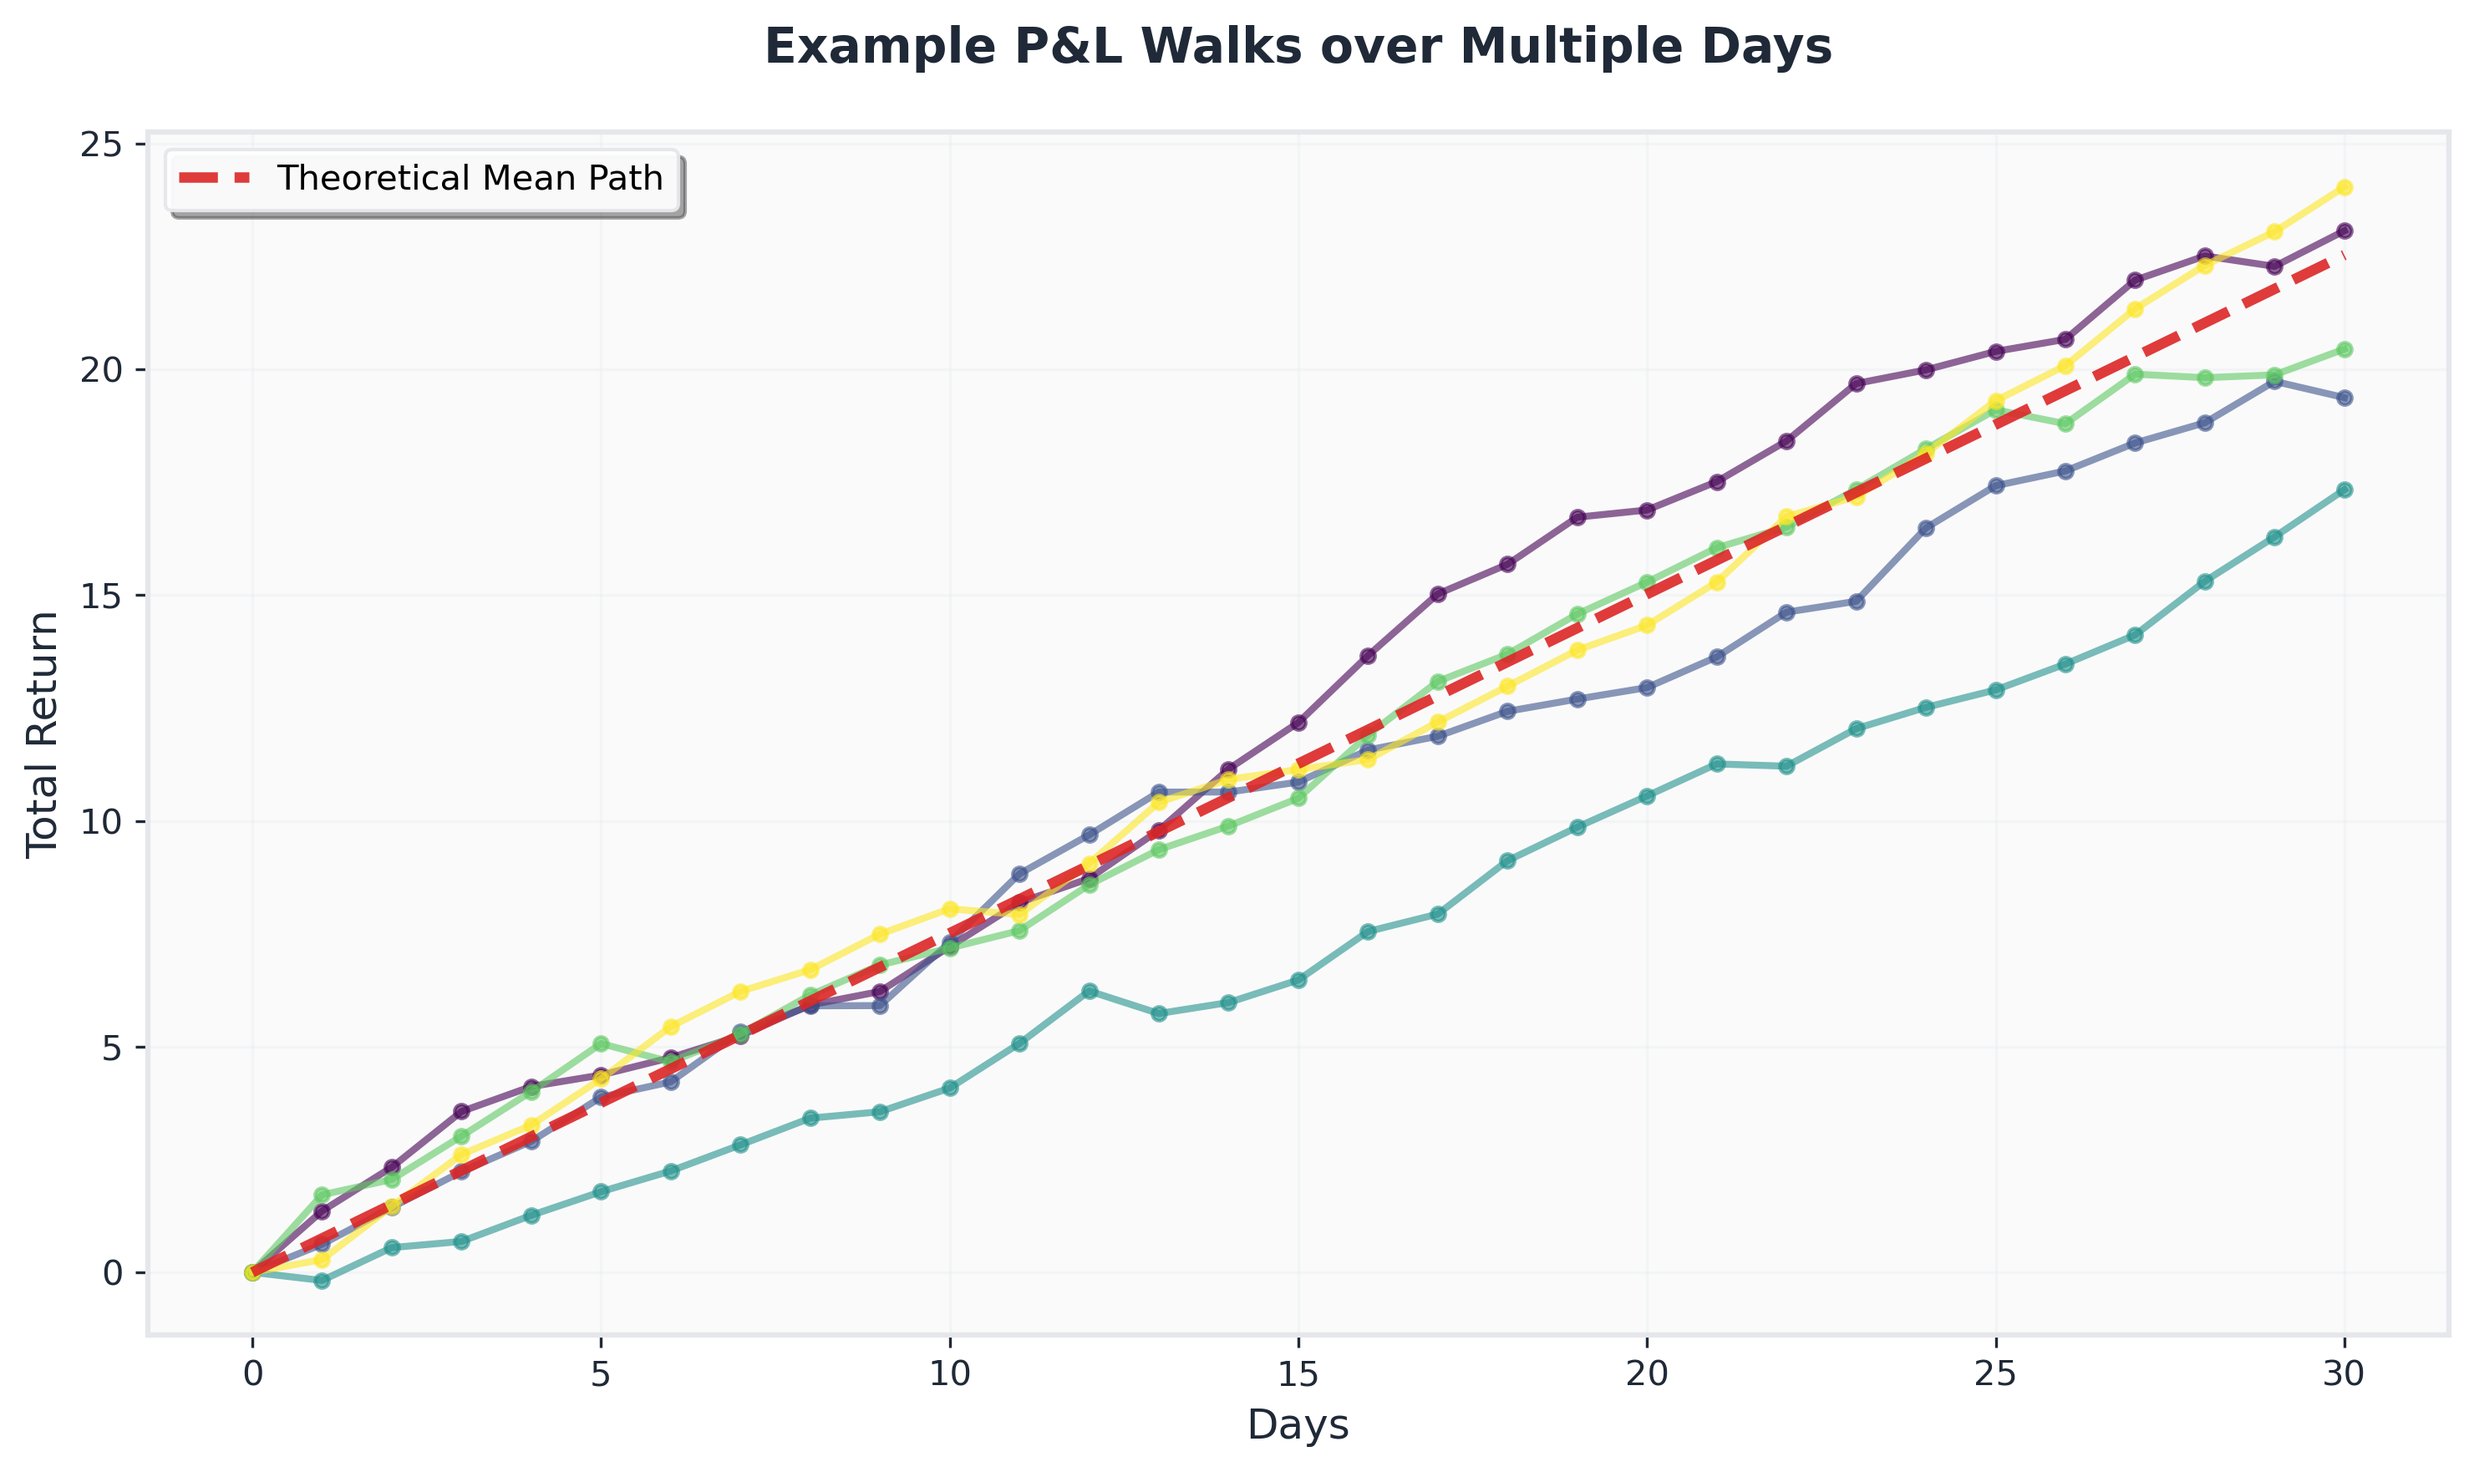
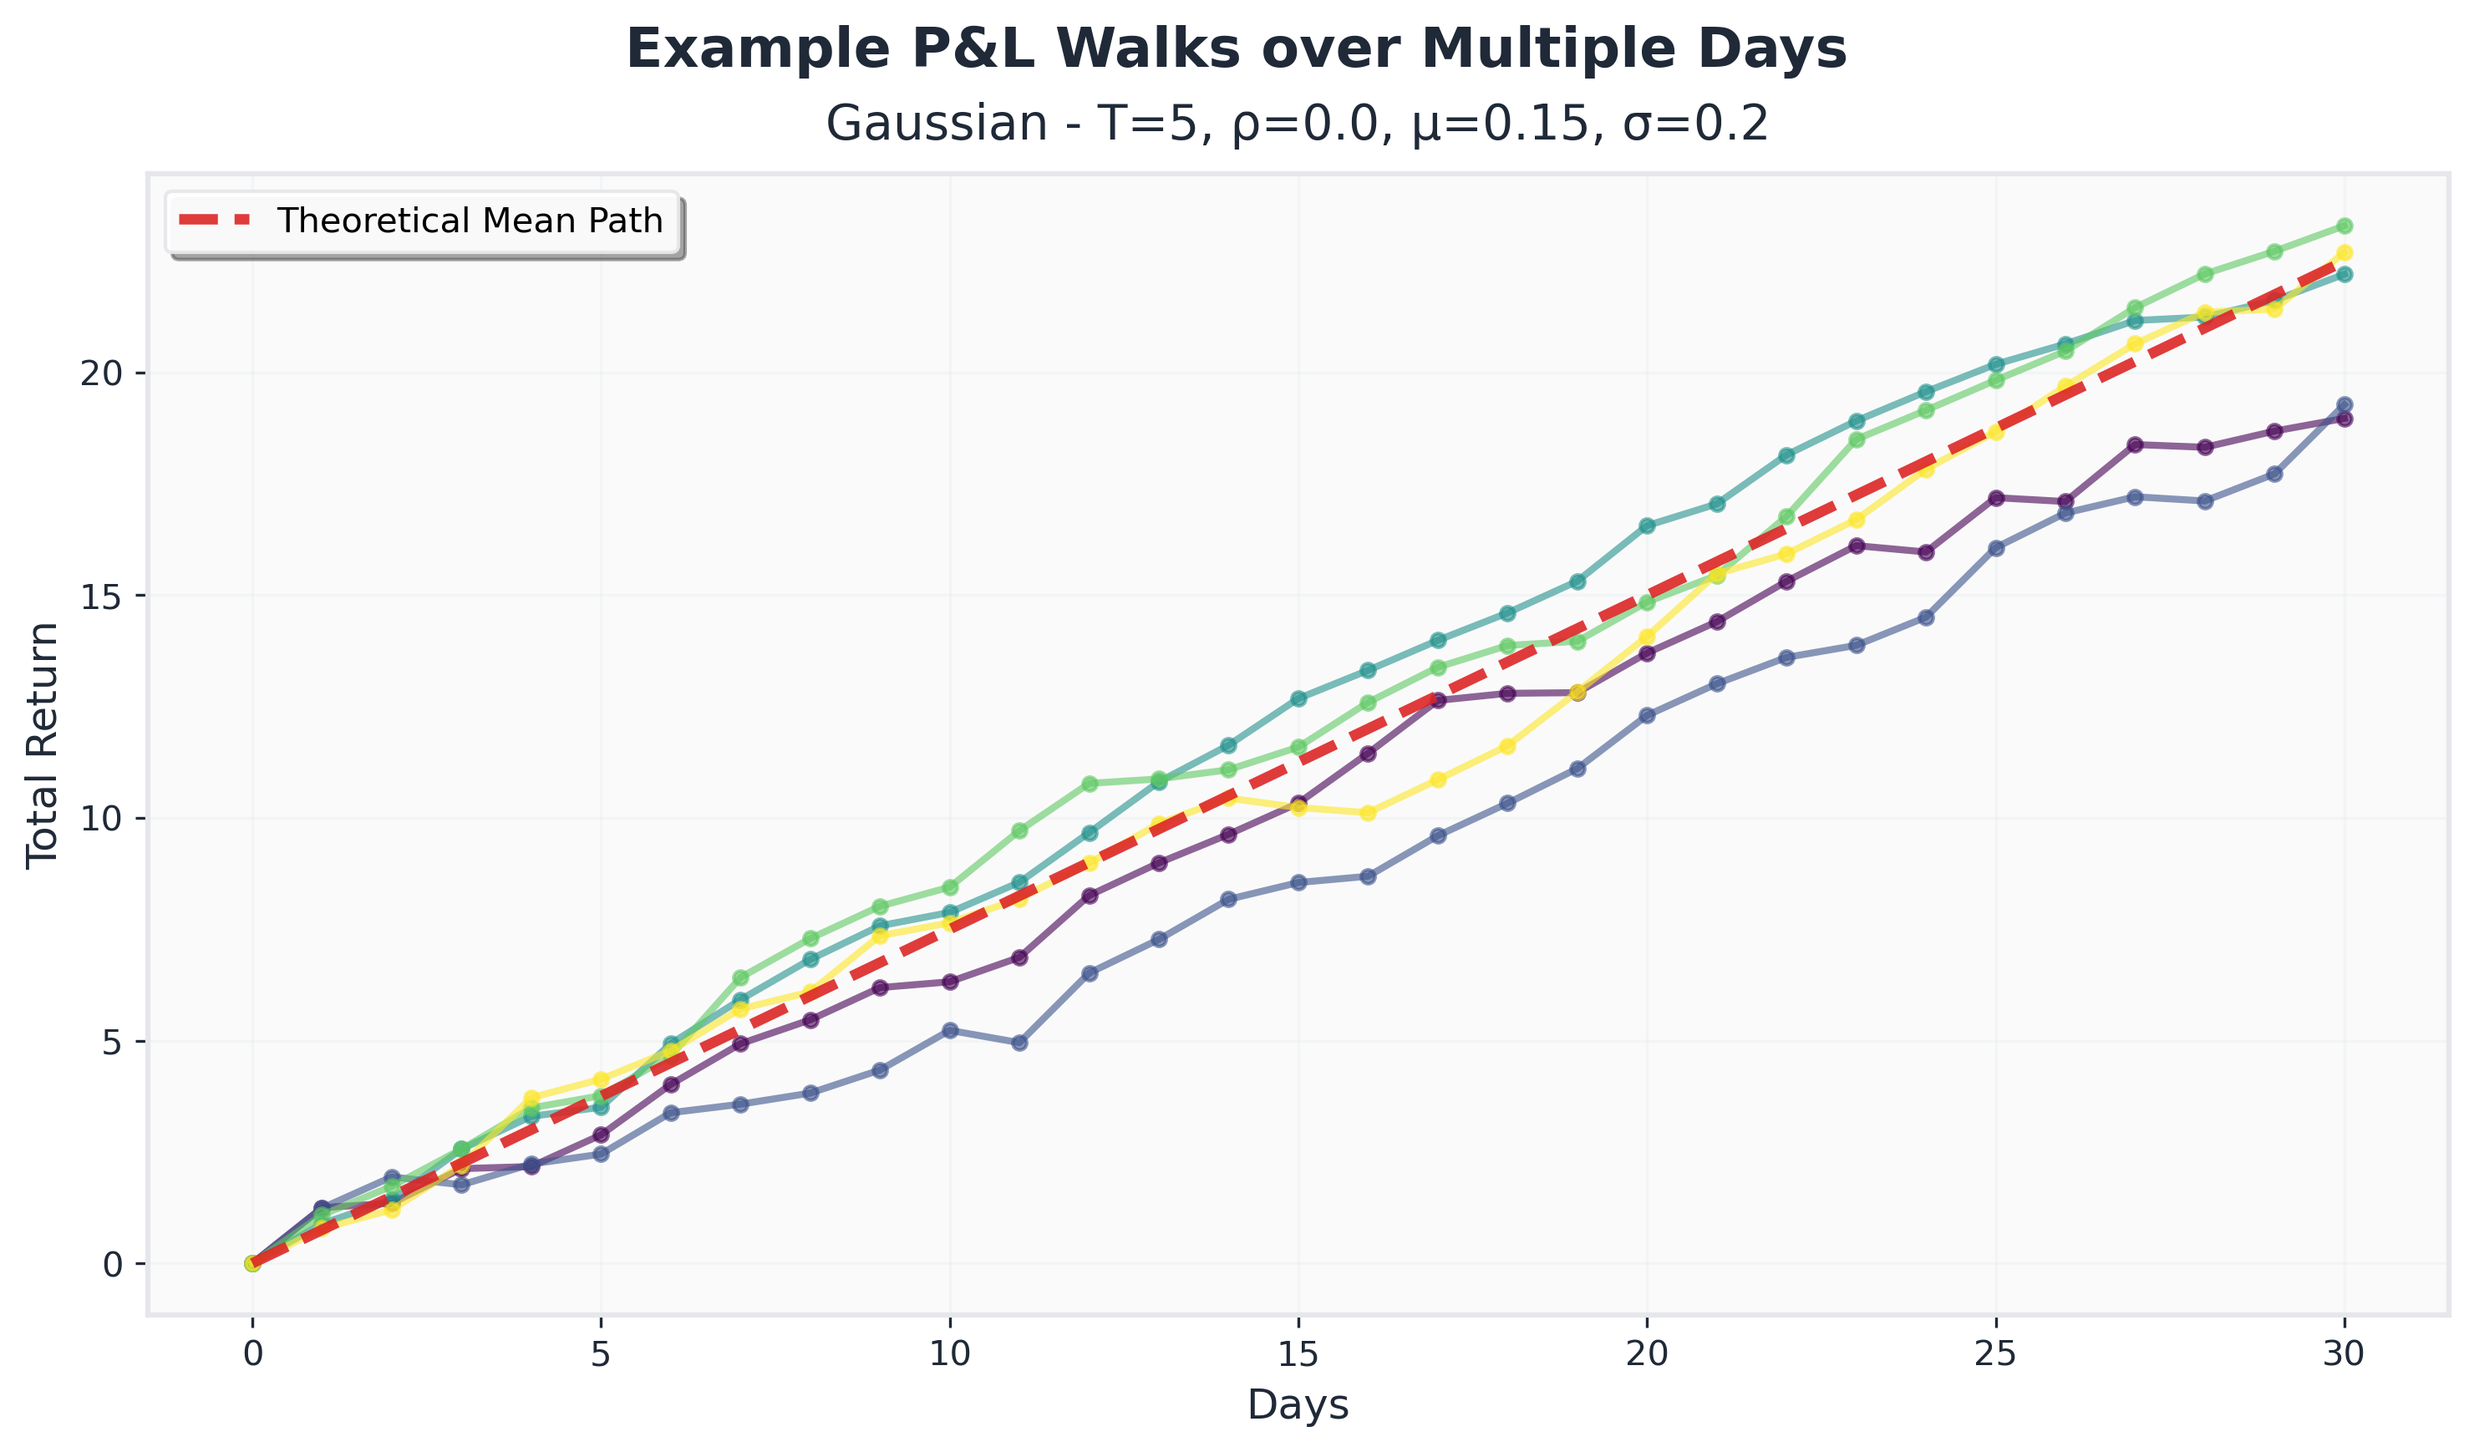
subtitle has info about the distrubtion

diff --git a/walk_days.py b/walk_days.py
@@ -120,10 +120,11 @@ path_mean = [true_mean * d for d in range(SAMPLE_DAYS + 1)]
 # VISUALIZATION HELPERS
 # ============================================================================
 
-def style_axes(ax, title, xlabel, ylabel):
+def style_axes(fig, ax, title, subtitle, xlabel, ylabel):
     """Apply consistent professional styling to axes."""
+    fig.suptitle(title, fontweight='700', color=COLOR_TEXT, y=.96)
     ax.set_facecolor('#fafafa')
-    ax.set_title(title, fontweight='600', color=COLOR_TEXT, pad=20)
+    ax.set_title(subtitle, fontweight='300', color=COLOR_TEXT, pad=10)
     ax.set_xlabel(xlabel, fontweight='500', color=COLOR_TEXT)
     ax.set_ylabel(ylabel, fontweight='500', color=COLOR_TEXT)
     ax.grid(True, which='major', linestyle='-', alpha=0.3, color=COLOR_GRID)
@@ -142,14 +143,14 @@ def create_legend(ax, **kwargs):
     return legend
 
 
-def get_distribution_name(dist, df=None, skew_alpha=None):
+def get_distribution_name(mu, sigma, dist, T, rho, df, skew_alpha):
     """Get formatted distribution name for labels."""
     if dist == "gaussian":
-        return "Gaussian"
+        return f"Gaussian - T={T}, ρ={rho}, μ={mu}, σ={sigma}"
     elif dist == "student-t":
-        return f"Student-t (df={df})"
+        return f"Student-t - T={T}, ρ={rho}, μ={mu}, σ={sigma}, df={df}"
     elif dist == "skewnorm":
-        return f"Skew-Normal (α={skew_alpha})"
+        return f"Skew-Normal - T={T}, ρ={rho}, μ={mu}, σ={sigma}, α={skew_alpha}"
     return dist
 
 # ============================================================================
@@ -163,6 +164,7 @@ print("\nGenerating plot...")
 
 fig1, ax1 = plt.subplots(figsize=(10, 6))
 fig1.patch.set_facecolor('white')
+
 
 colors = plt.cm.viridis(np.linspace(0, 1, SAMPLE_COUNT))
 for path, color in zip(sample_paths, colors):
@@ -180,8 +182,10 @@ ax1.plot(
 )
 
 style_axes(
+    fig1,
     ax1,
-    'Example P&L Walks over Multiple Days',
+    f'Example P&L Walks over Multiple Days',
+    get_distribution_name(mu, sigma, dist, T, rho, df, skew_alpha),
     'Days',
     'Total Return'
 )
